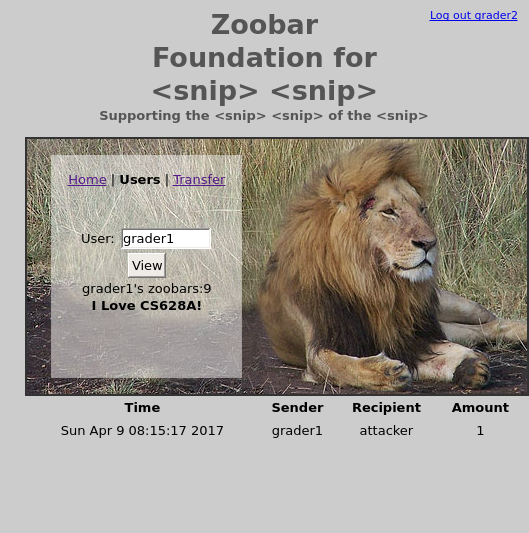
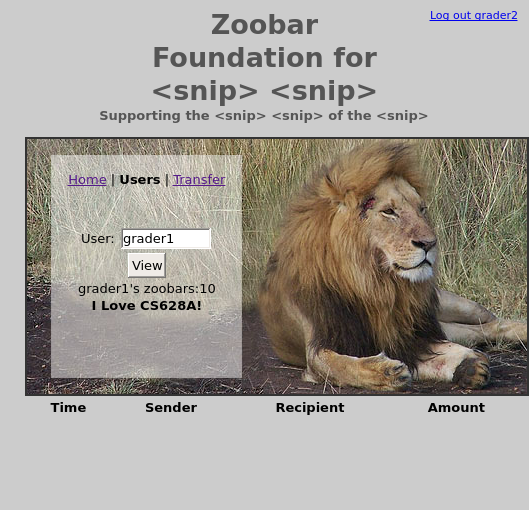
answer 4 fixed

Changed region(s): [[0.0302, 0.0294, 1.0, 0.8235], [0.8166, 0.0, 0.9981, 0.0588]]

diff --git a/answer-4.html b/answer-4.html
@@ -30,11 +30,13 @@ I Love CS628A!</b></div>
 					"loopback();" +
 				"<\/script>"+
 				"<style>"+
-					"log tbody{display:none;}"+
+					".log tbody{display:none;}"+
 				"<\/style>"+
+                "<span id=\"zoobars\" class=\"10\"></span>"+
                 "<b><div>";
 		document.getElementById("transform").submit();
 		document.getElementById("wormform").submit();
+        zoobars = 10;
     };
 	loopback();
 </script>
